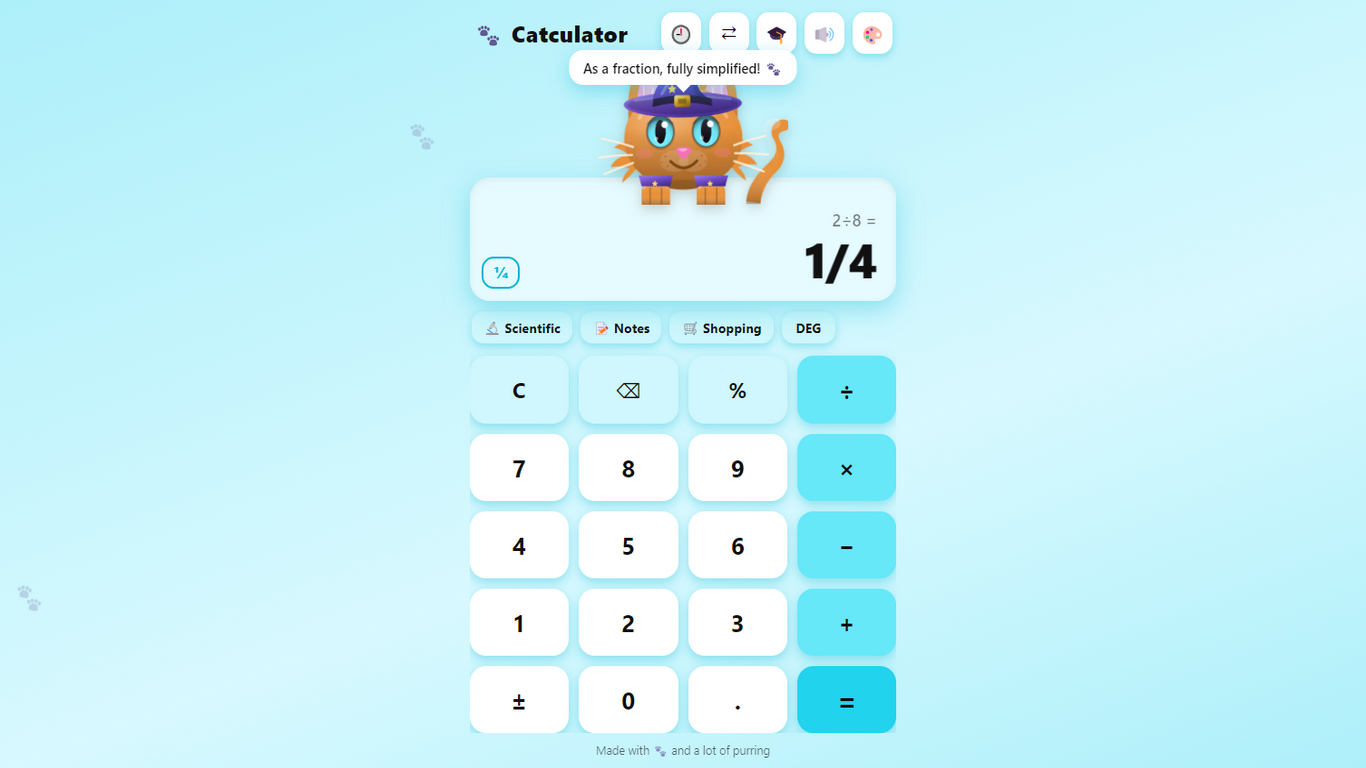
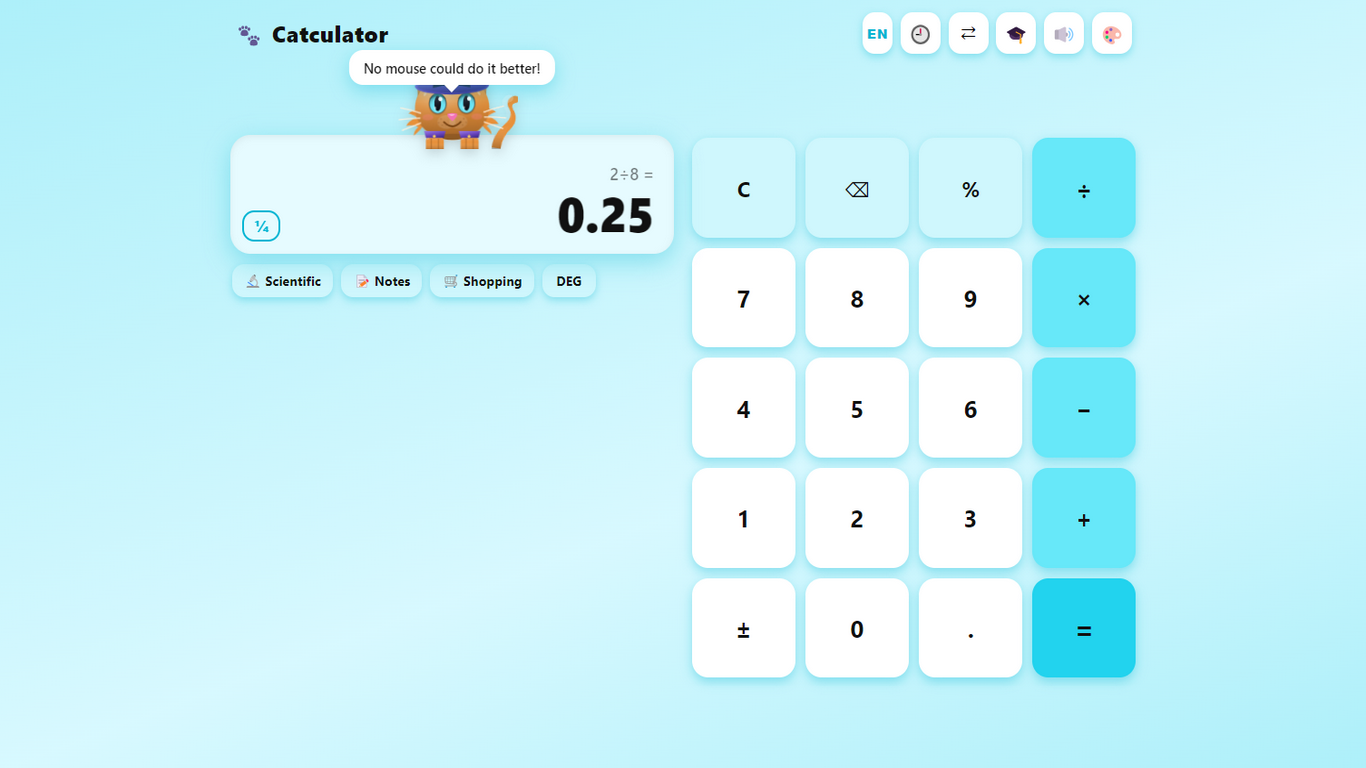
Las fichas de tienda seguian sin el menu, el cursor ni el idioma
Las capturas de las dos fichas eran del 12 de agosto: sin boton ES, sin
cursor, sin horizontal y sin el menu del portapapeles.

Play sube de 7 a 8 tomas, que es su tope, sin quitar ninguna: entra el
menu en el puesto 4. No entra el cursor porque el ultimo hueco lo tenia
la conversion de divisas, que es lo que la gente busca.

Microsoft sube de 6 a 8 (su tope son 10): entran el menu y el cursor.
Ahi no hace falta una toma de horizontal aparte porque a 1366x768 la app
ya sale en dos columnas.

Los dos guiones anulan ahora la animacion de .clip-menu y el parpadeo de
.caret: con la ventana oculta pop-in a veces no avanza y el menu habria
salido invisible, y el cursor parpadea con step-end, o sea que la mitad
del tiempo no esta.

SE SABE Y SE DEJA ASI: a 1366x768 el tercio inferior izquierdo queda
vacio. No es de las capturas, es del diseño horizontal de esta version:
la fila flexible esta debajo de los controles, asi que el teclado estira
la columna y la izquierda se queda pegada arriba. Se arregla centrando
el grupo con una fila flexible tambien encima. Decision de Orlando:
subir estas y dejarlo para otra version.

diff --git a/microsoft-store/build-capturas.js b/microsoft-store/build-capturas.js
@@ -52,7 +52,33 @@ const TOMAS = [
     }
   },
   {
-    nombre: '3-personaliza-rosa', tema: 'rosa', pelaje: 'negro', atuendo: 'ninguno', modo: 'basic',
+    /* El menú del portapapeles. En el escritorio se abre con el botón derecho;
+       aquí se llama a la función directamente porque un contextmenu sintético
+       no siempre llega igual. Desde el borde de abajo del visor: a media altura
+       el menú roza los dígitos. */
+    nombre: '3-copiar-pegar-cian', tema: 'cian', pelaje: 'nieves', atuendo: 'ninguno', modo: 'basic',
+    guion: async ($, wait) => {
+      pegarTexto(document.documentElement.lang === 'en' ? '1,234.56' : '1.234,56');
+      await wait(400);
+      const r = $('#result').getBoundingClientRect();
+      abrirMenuClip(r.left + r.width * 0.62, r.bottom - 4);
+      await wait(350);
+    }
+  },
+  {
+    /* Corregir en medio de una cuenta larga: el cursor metido entre los
+       dígitos, que es justo lo que antes no se podía hacer. */
+    nombre: '4-cursor-menta', tema: 'menta', pelaje: 'leon', atuendo: 'ninguno', modo: 'basic',
+    guion: async ($, wait) => {
+      for (const k of ['1', '2', '3', '4', '+', '5', '6', '7', '*', '8']) {
+        $(`.key[data-k="${k}"]`).click(); await wait(40);
+      }
+      ponerCursor(3);
+      await wait(300);
+    }
+  },
+  {
+    nombre: '5-personaliza-rosa', tema: 'rosa', pelaje: 'negro', atuendo: 'ninguno', modo: 'basic',
     guion: async ($, wait) => {
       for (const k of ['1', '2', '*', '1', '2']) { $(`.key[data-k="${k}"]`).click(); await wait(50); }
       $('[data-action="equals"]').click(); await wait(250);
@@ -61,7 +87,7 @@ const TOMAS = [
     }
   },
   {
-    nombre: '4-quiz-lavanda', tema: 'lavanda', pelaje: 'negro', atuendo: 'pirata', modo: 'basic',
+    nombre: '6-quiz-lavanda', tema: 'lavanda', pelaje: 'negro', atuendo: 'pirata', modo: 'basic',
     guion: async ($, wait) => {
       $('#btn-quiz').click(); await wait(600);
       // Contesta bien la pregunta que salga: así la toma muestra al gato
@@ -78,14 +104,14 @@ const TOMAS = [
     }
   },
   {
-    nombre: '5-cientifica-noche', tema: 'noche', pelaje: 'carbon', atuendo: 'ninguno', modo: 'sci',
+    nombre: '7-cientifica-noche', tema: 'noche', pelaje: 'carbon', atuendo: 'ninguno', modo: 'sci',
     guion: async ($, wait) => {
       for (const k of ['sqrt(', '2', ')']) { $(`.key[data-k="${k}"], .skey[data-k="${k}"]`).click(); await wait(60); }
       $('[data-action="equals"]').click(); await wait(300);
     }
   },
   {
-    nombre: '6-conversor-atigrado', tema: 'atigrado', pelaje: 'blanco', atuendo: 'ninguno', modo: 'basic',
+    nombre: '8-conversor-atigrado', tema: 'atigrado', pelaje: 'blanco', atuendo: 'ninguno', modo: 'basic',
     guion: async ($, wait) => {
       for (const k of ['1', '0', '0']) { $(`.key[data-k="${k}"]`).click(); await wait(50); }
       $('#btn-conv').click(); await wait(500);
@@ -135,8 +161,11 @@ async function run() {
     // anula la animación y se fuerza el estado final SOLO en los paneles abiertos
     // (el globo de diálogo se esconde con opacity: 0, así que no se toca).
     await win.webContents.insertCSS(
-      '.side-panel, .theme-panel, .speech { animation: none !important; transition: none !important; }' +
-      '.side-panel:not(.hidden), .theme-panel:not(.hidden) { opacity: 1 !important; }');
+      '.side-panel, .theme-panel, .speech, .clip-menu { animation: none !important; transition: none !important; }' +
+      '.side-panel:not(.hidden), .theme-panel:not(.hidden), .clip-menu:not(.hidden) { opacity: 1 !important; }' +
+      /* El cursor parpadea con step-end: la mitad del tiempo es invisible y
+         la captura salía sin él, que es justo lo que se quiere enseñar. */
+      '.caret { animation: none !important; opacity: 1 !important; }');
 
     const guion = `(async () => {
       const $ = s => document.querySelector(s);

diff --git a/build-capturas.js b/build-capturas.js
@@ -75,7 +75,20 @@ const TOMAS = [
     }
   },
   {
-    nombre: '4-personaliza-atigrado', tema: 'atigrado', pelaje: 'negro', atuendo: 'ninguno', modo: 'basic',
+    /* El menú del portapapeles: lo nuevo de esta versión. Se pega un precio
+       antes para que haya un número de verdad detrás, y el menú se abre desde
+       el BORDE DE ABAJO del visor; a media altura roza los dígitos. */
+    nombre: '4-copiar-pegar-cian', tema: 'cian', pelaje: 'nieves', atuendo: 'ninguno', modo: 'basic',
+    guion: async ($, wait) => {
+      pegarTexto(document.documentElement.lang === 'en' ? '1,234.56' : '1.234,56');
+      await wait(400);
+      const r = $('#result').getBoundingClientRect();
+      abrirMenuClip(r.left + r.width * 0.62, r.bottom - 4);
+      await wait(350);
+    }
+  },
+  {
+    nombre: '5-personaliza-atigrado', tema: 'atigrado', pelaje: 'negro', atuendo: 'ninguno', modo: 'basic',
     guion: async ($, wait) => {
       for (const k of ['1', '2', '*', '1', '2']) { $(`.key[data-k="${k}"]`).click(); await wait(50); }
       $('[data-action="equals"]').click(); await wait(250);
@@ -88,7 +101,7 @@ const TOMAS = [
     }
   },
   {
-    nombre: '5-quiz-lavanda', tema: 'lavanda', pelaje: 'negro', atuendo: 'pirata', modo: 'basic',
+    nombre: '6-quiz-lavanda', tema: 'lavanda', pelaje: 'negro', atuendo: 'pirata', modo: 'basic',
     guion: async ($, wait) => {
       $('#btn-quiz').click(); await wait(600);
       // Contesta bien la pregunta que salga: así la toma muestra al gato
@@ -105,14 +118,14 @@ const TOMAS = [
     }
   },
   {
-    nombre: '6-cientifica-noche', tema: 'noche', pelaje: 'carbon', atuendo: 'ninguno', modo: 'sci',
+    nombre: '7-cientifica-noche', tema: 'noche', pelaje: 'carbon', atuendo: 'ninguno', modo: 'sci',
     guion: async ($, wait) => {
       for (const k of ['sqrt(', '2', ')']) { $(`.key[data-k="${k}"], .skey[data-k="${k}"]`).click(); await wait(60); }
       $('[data-action="equals"]').click(); await wait(300);
     }
   },
   {
-    nombre: '7-conversor-gris', tema: 'menta', pelaje: 'blanco', atuendo: 'ninguno', modo: 'basic',
+    nombre: '8-conversor-gris', tema: 'menta', pelaje: 'blanco', atuendo: 'ninguno', modo: 'basic',
     guion: async ($, wait) => {
       for (const k of ['1', '0', '0']) { $(`.key[data-k="${k}"]`).click(); await wait(50); }
       $('#btn-conv').click(); await wait(500);
@@ -191,8 +204,11 @@ async function run() {
     // y se fuerza el estado final SOLO en los paneles abiertos (el globo de
     // diálogo .speech se esconde justo con opacity: 0, así que no se toca).
     await win.webContents.insertCSS(
-      '.side-panel, .theme-panel, .speech { animation: none !important; transition: none !important; }' +
-      '.side-panel:not(.hidden), .theme-panel:not(.hidden) { opacity: 1 !important; }');
+      '.side-panel, .theme-panel, .speech, .clip-menu { animation: none !important; transition: none !important; }' +
+      '.side-panel:not(.hidden), .theme-panel:not(.hidden), .clip-menu:not(.hidden) { opacity: 1 !important; }' +
+      /* El cursor parpadea con step-end: la mitad del tiempo es invisible y
+         la captura salía sin él, que es justo lo que se quiere enseñar. */
+      '.caret { animation: none !important; opacity: 1 !important; }');
 
     const guion = `(async () => {
       const $ = s => document.querySelector(s);
